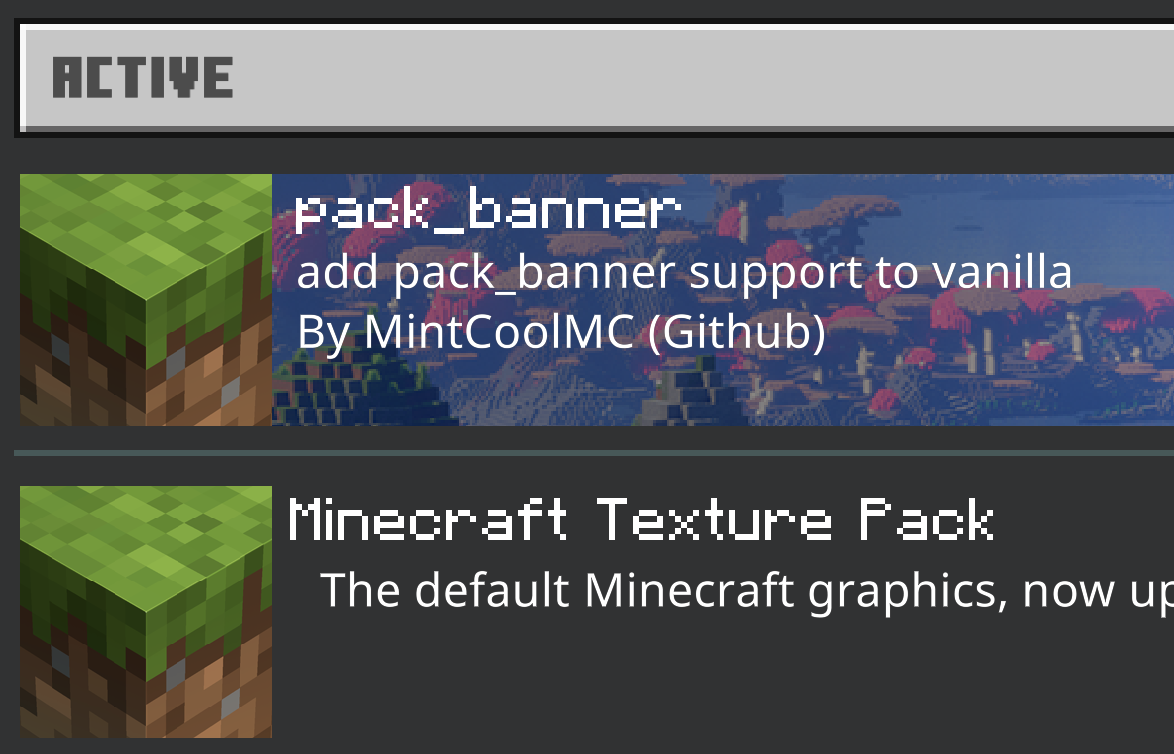
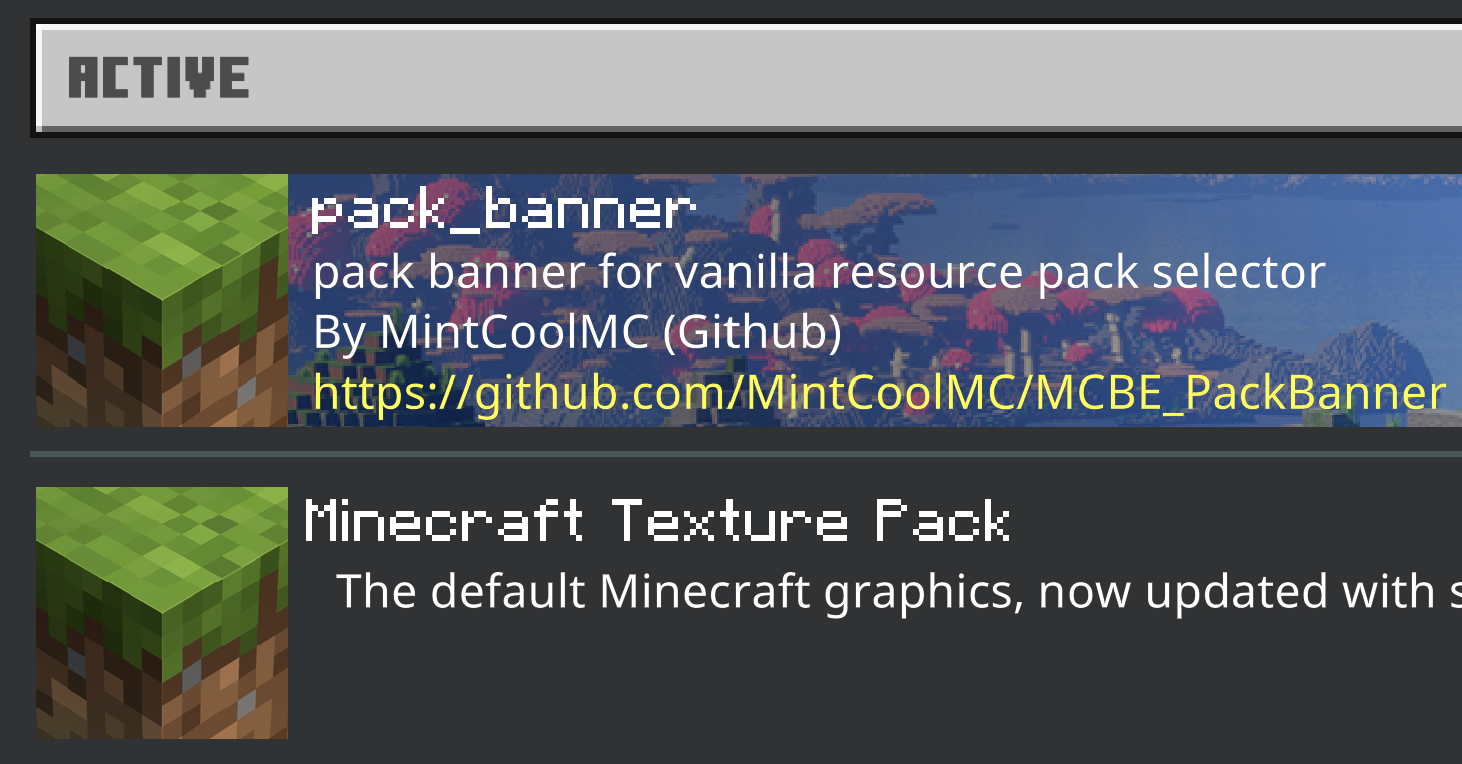
update README

Changed region(s): [[0.0, 0.2135, 1.0, 1.0], [0.0, 0.0305, 1.0, 0.183]]

diff --git a/README.md b/README.md
@@ -1,0 +1,18 @@
+## Pack Banner  
+pack banner for vanilla resource pack selector
+
+## Add banner for your pack  
+Place pack_banner.png in the same directory as pack_icon.png
+
+## Example file structure
+- manifest.json
+- pack_banner.png
+- pack_icon.png
+
+## Screenshots  
+![](https://raw.githubusercontent.com/MintCoolMC/MCBE_PackBanner/refs/heads/main/screenshots/1.png)
+
+## Add to your pack  
+resource_packs_screen.json contains the basic implementation,  
+You can implement your own method in your pack
+
